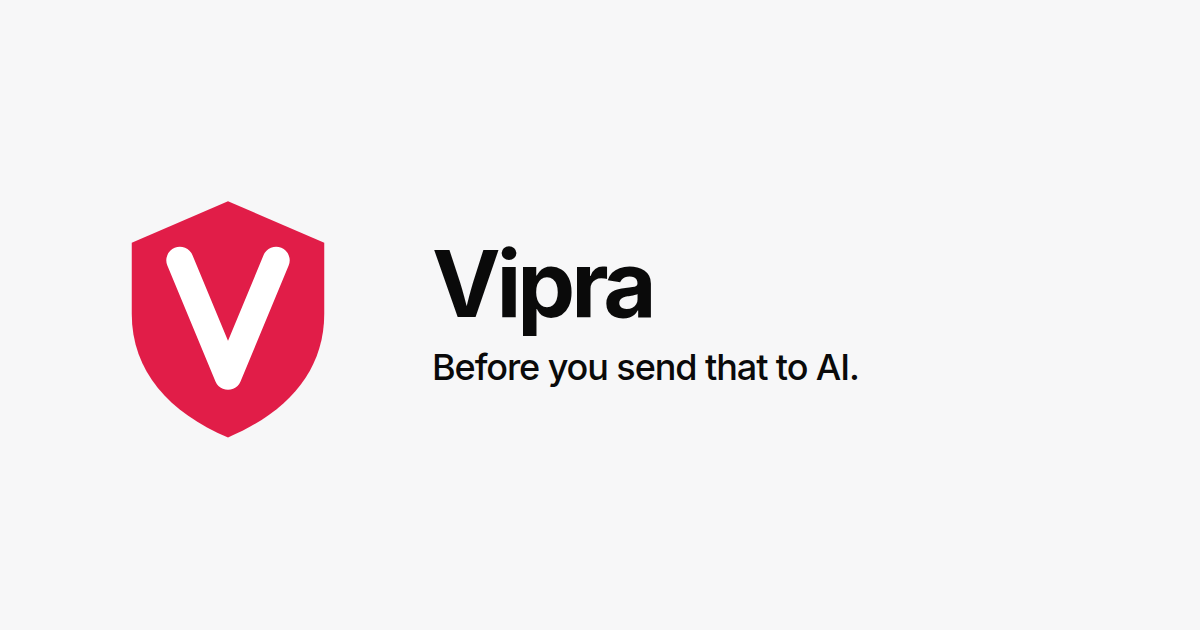
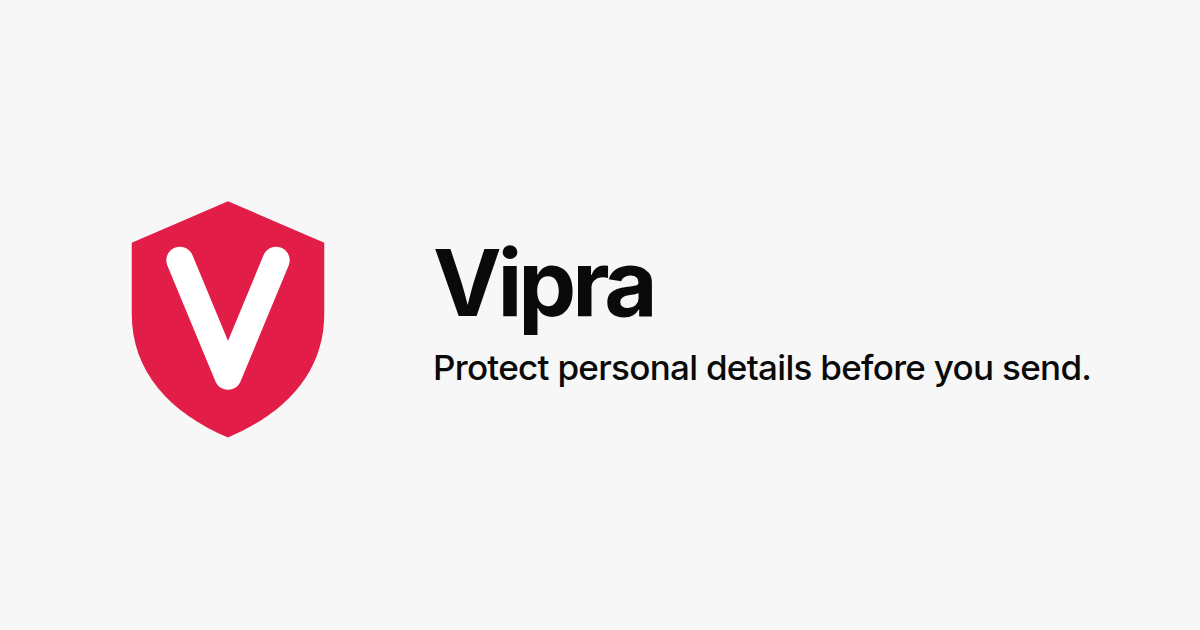
Update the Open Graph image for the new tagline.
Replace the AI-only line on og.png and add a Spanish share image for /es/.

Changed region(s): [[0.3392, 0.5429, 0.925, 0.6032], [0.37, 0.3921, 0.555, 0.5127]]

diff --git a/es/index.html b/es/index.html
@@ -9,7 +9,7 @@
   <link rel="alternate" hreflang="es" href="https://vipra.app/es/" />
   <link rel="alternate" hreflang="x-default" href="https://vipra.app/" />
   <meta property="og:url" content="https://vipra.app/es/" />
-  <meta property="og:image" content="https://vipra.app/og.png" />
+  <meta property="og:image" content="https://vipra.app/og-es.png" />
   <meta name="description" content="Detecta nombres, correos, teléfonos, tarjetas y documentos en cualquier campo de texto antes de enviar. Chats de IA, email y formularios. En tu dispositivo, con tokens como [EMAIL_1]." />
   <meta property="og:title" content="Protege tus datos personales antes de enviar" />
   <meta property="og:description" content="Detecta nombres, correos, teléfonos, tarjetas y documentos en cualquier campo de texto antes de enviar. Chats de IA, email y formularios. En tu dispositivo, con tokens como [EMAIL_1]." />

diff --git a/es/privacy.html b/es/privacy.html
@@ -9,7 +9,7 @@
   <link rel="alternate" hreflang="es" href="https://vipra.app/es/privacy.html" />
   <link rel="alternate" hreflang="x-default" href="https://vipra.app/privacy.html" />
   <meta property="og:url" content="https://vipra.app/es/privacy.html" />
-  <meta property="og:image" content="https://vipra.app/og.png" />
+  <meta property="og:image" content="https://vipra.app/og-es.png" />
   <meta property="og:title" content="Privacidad — Vipra" />
   <meta property="og:description" content="Nada de lo que escribes con Vipra sale de tu dispositivo. La clave de licencia solo se comprueba al activar De por vida, a través de Lemon Squeezy." />
   <meta property="og:type" content="website" />

diff --git a/es/terms.html b/es/terms.html
@@ -9,7 +9,7 @@
   <link rel="alternate" hreflang="es" href="https://vipra.app/es/terms.html" />
   <link rel="alternate" hreflang="x-default" href="https://vipra.app/terms.html" />
   <meta property="og:url" content="https://vipra.app/es/terms.html" />
-  <meta property="og:image" content="https://vipra.app/og.png" />
+  <meta property="og:image" content="https://vipra.app/og-es.png" />
   <meta property="og:title" content="Condiciones — Vipra" />
   <meta property="og:description" content="El plan gratis son cinco protecciones al día. De por vida son €4,99 una sola vez, sin suscripción." />
   <meta property="og:type" content="website" />

diff --git a/es/support.html b/es/support.html
@@ -9,7 +9,7 @@
   <link rel="alternate" hreflang="es" href="https://vipra.app/es/support.html" />
   <link rel="alternate" hreflang="x-default" href="https://vipra.app/support.html" />
   <meta property="og:url" content="https://vipra.app/es/support.html" />
-  <meta property="og:image" content="https://vipra.app/og.png" />
+  <meta property="og:image" content="https://vipra.app/og-es.png" />
   <meta property="og:title" content="Soporte — Vipra" />
   <meta property="og:description" content="Escribe a Vipra. No hace falta pegar el texto con datos personales." />
   <meta property="og:type" content="website" />
